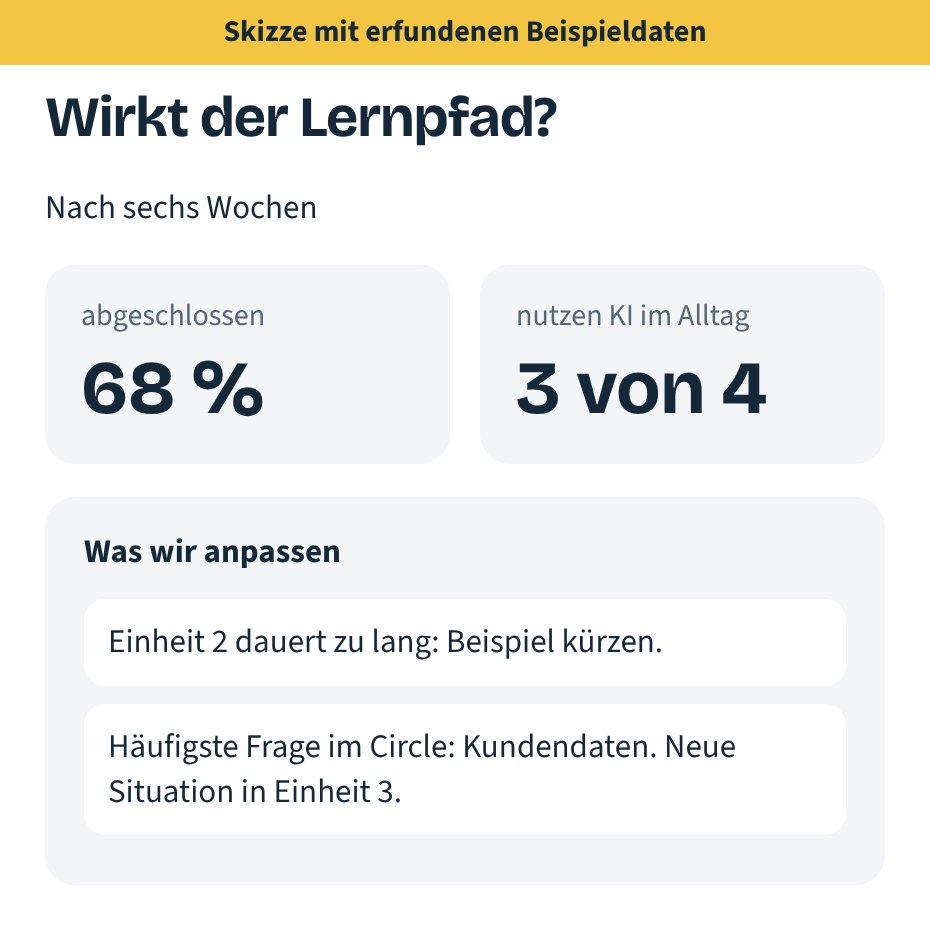
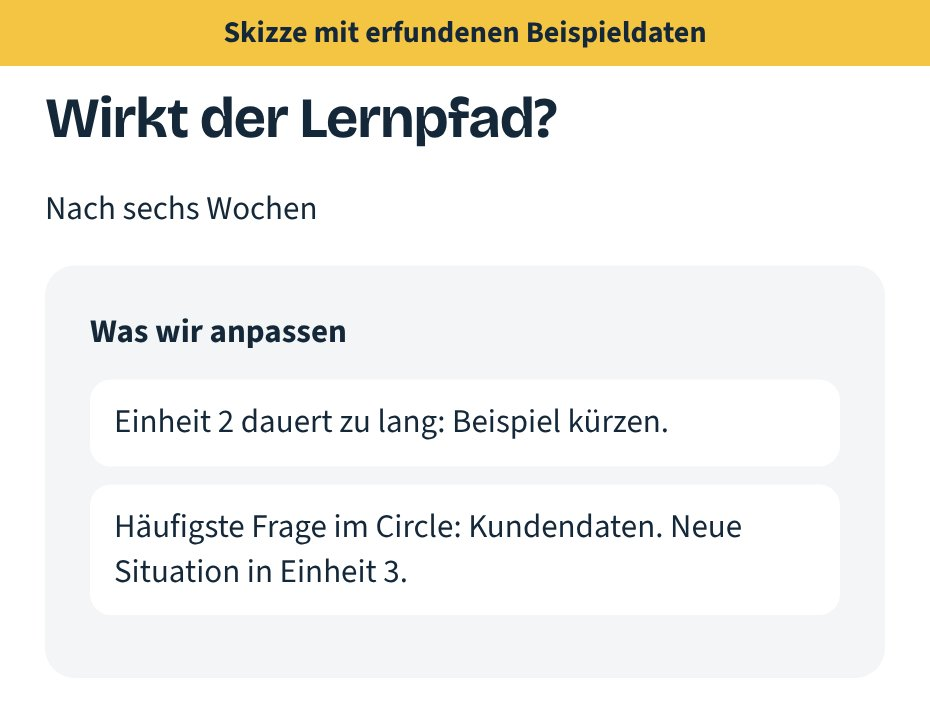
Roche/Post: sechste Prüfung umgesetzt (Tool-Vergleich, Learning Agent konkret, Skizzen ohne Kennzahl-Kacheln)
Claude-Session: https://claude.ai/code/session_014XkfFDuSjJmJmkreTr4ADN

diff --git a/post/index.html b/post/index.html
@@ -320,6 +320,7 @@ footer p{max-width:none;margin:0}
 @media (max-width:420px){.brand span{display:none}}
 
 @media (max-width:600px){.pair-row figure img.m-auto{aspect-ratio:auto;object-fit:contain}.focus{grid-template-columns:1fr!important}.focus a,.focus a+a,.focus.five a{padding-left:0!important;border-left:0!important}.focus a+a{border-top:1px solid var(--line)}}
+.pair-row figure img.natural{aspect-ratio:auto}
 </style>
 </head>
 <body>
@@ -380,7 +381,7 @@ footer p{max-width:none;margin:0}
         <div class="wie">
           <p class="lab">01 · Idee für die Post, als Prototyp</p>
           <h2>KI-Upskilling mit Badge</h2>
-          <ul><li><b>Ausgangslage:</b> Viele wissen nicht genau, was sie mit KI dürfen.</li><li><b>Vorgehen:</b> Acht Situationen aus dem Büroalltag einschätzen, mit Begründung. Danach gibt es einen Badge, später als Open Badge.</li><li><b>Mein Beitrag:</b> Prototyp gebaut. Die Regeln kämen aus euren Richtlinien. Nächster Schritt wäre ein Learning Agent, der Fragen dazu beantwortet.</li></ul>
+          <ul><li><b>Ausgangslage:</b> Viele wissen nicht genau, was sie mit KI dürfen.</li><li><b>Vorgehen:</b> Acht Situationen aus dem Büroalltag einschätzen, mit Begründung. Danach gibt es einen Badge, später als Open Badge.</li><li><b>Mein Beitrag:</b> Prototyp gebaut. Die Regeln kämen aus euren Richtlinien. Nächster Schritt: ein Chat-Assistent (Learning Agent), der Fragen zu euren Richtlinien beantwortet, mit Quellenangabe.</li></ul>
           <div class="embed-proto" id="proto-stage"><iframe id="pframe" src="ki-check.html?embed" title="Prototyp KI im Arbeitsalltag"></iframe></div><p class="small-link">Ab sechs richtigen Antworten gibt es den Badge. <a href="ki-check.html" target="_blank" rel="noopener">In neuem Fenster öffnen</a></p>
           
         </div>
@@ -407,7 +408,7 @@ footer p{max-width:none;margin:0}
         <div class="was">
           <p class="lab">03 · Bisher</p>
           <h3>Trainings und Workshops für Erwachsene</h3>
-          <ul><li>Weiterbildungen u. a. im Auftrag des Amts für Volksschulen BL</li><li>Themen: digitales Prüfen, Gamification, Auftreten vor Gruppen</li><li>Interaktive Inhalte mit Autorentools, BookWidgets Ambassador</li><li>Didaktische Beratung von Fachpersonen beim Aufbau digitaler Lerneinheiten</li></ul>
+          <ul><li>Weiterbildungen u. a. im Auftrag des Amts für Volksschulen BL</li><li>Themen: digitales Prüfen, Gamification, Auftreten vor Gruppen</li><li>Digitale Prüfungstools getestet und verglichen</li><li>Interaktive Inhalte mit Autorentools, BookWidgets Ambassador</li><li>Didaktische Beratung von Fachpersonen beim Aufbau digitaler Lerneinheiten</li></ul>
           <dl class="facts"><div><dt>Zeitraum</dt><dd>seit 2022</dd></div><div><dt>Rolle</dt><dd>Konzeption und Leitung</dd></div></dl>
           
           
@@ -433,7 +434,7 @@ footer p{max-width:none;margin:0}
           <p class="lab">04 · Idee für die Post</p>
           <h2>Learning Analytics, die etwas ändern</h2>
           <ul><li><b>Ausgangslage:</b> Abschlussquoten allein sagen wenig über die Wirkung.</li><li><b>Vorgehen:</b> Vorher und nachher fragen, ob sich die Leute sicher fühlen. Nach sechs Wochen nachfassen, ob sie es im Alltag nutzen.</li><li><b>Mein Beitrag:</b> Fragen und Auswertung aufbauen, daraus Anpassungen am Lernpfad ableiten.</li></ul>
-          <figure><picture><source media="(max-width:600px)" srcset="../img/post-analytics-m.jpg"><img class="shot m-auto" src="../img/post-analytics.jpg" alt="Skizze: Auswertung eines Lernpfads mit Beispieldaten"></picture><figcaption><b>Skizze mit erfundenen Beispieldaten.</b> So könnte eine Auswertung aussehen.</figcaption></figure>
+          <figure><picture><source media="(max-width:600px)" srcset="../img/post-analytics-m.jpg"><img class="shot m-auto natural" src="../img/post-analytics.jpg" alt="Skizze: Auswertung eines Lernpfads mit Beispieldaten"></picture><figcaption><b>Skizze mit erfundenen Beispieldaten.</b> So könnte eine Auswertung aussehen.</figcaption></figure>
           
         </div>
       </article>

diff --git a/roche/index.html b/roche/index.html
@@ -430,7 +430,7 @@ footer p{max-width:none;margin:0}
         <div class="wie">
           <p class="lab">04 · Idee für Fachleute</p>
           <h2>Train-the-Trainer</h2>
-          <ul><li><b>Ausgangslage:</b> Viele Fachleute geben ihr Wissen weiter, ohne dafür ausgebildet zu sein.</li><li><b>Vorgehen:</b> Kurze Workshops: eine Arbeit gut vorzeigen und danach prüfen, ob sie sitzt.</li><li><b>Mein Beitrag:</b> Konzept und Moderation, mit den Werkzeugen, die bei Roche freigegeben sind.</li></ul>
+          <ul><li><b>Ausgangslage:</b> Viele Fachleute geben ihr Wissen weiter, ohne dafür ausgebildet zu sein.</li><li><b>Vorgehen:</b> Kurze Workshops: eine Arbeit gut vorzeigen und danach prüfen, ob sie sitzt.</li><li><b>Mein Beitrag:</b> Bedarf mit den Fachleuten klären, Konzept und Moderation, so wie bei meinen Weiterbildungen im Auftrag des Amts für Volksschulen. Dazu die Werkzeuge, die bei Roche freigegeben sind.</li></ul>
           <figure><picture><source media="(max-width:600px)" srcset="../img/tafel-workshop-m.jpg"><img class="shot m-auto" src="../img/tafel-workshop.jpg" alt="Skizze einer Workshop-Tafel mit Wortwolke und Umfrage"></picture><figcaption><b>Skizze.</b> So würde ich einsteigen: Was hat dir am Anfang geholfen?</figcaption></figure>
           
         </div>
@@ -446,11 +446,11 @@ footer p{max-width:none;margin:0}
       </div>
       <div class="stage" id="proto-stage">
         <div class="tabs" role="tablist" aria-label="Prototypen">
-          <button class="tab" role="tab" id="tab-ki" aria-selected="true" aria-controls="screen" data-p="ki">KI-Check<small>Darf ich hier KI nutzen?</small></button>
-          <button class="tab" role="tab" id="tab-fach" aria-selected="false" tabindex="-1" aria-controls="screen" data-p="fach">Fachbegriff-Trainer<small>Labor, weitere Bereiche möglich</small></button>
+          <button class="tab" role="tab" id="tab-fach" aria-selected="true" aria-controls="screen" data-p="fach">Fachbegriff-Trainer<small>Labor, weitere Bereiche möglich</small></button>
+          <button class="tab" role="tab" id="tab-ki" aria-selected="false" tabindex="-1" aria-controls="screen" data-p="ki">KI-Check<small>Darf ich hier KI nutzen?</small></button>
         </div>
-        <div class="screen" id="screen" role="tabpanel" aria-labelledby="tab-ki" tabindex="-1"><iframe id="pframe" src="ki-check.html?embed" title="Prototyp KI-Check"></iframe></div>
-        <div class="stage-foot"><p id="phint">Acht Situationen aus dem Arbeitsalltag in Labor und Büro, jeweils mit kurzer Begründung.</p><a id="popen" href="ki-check.html" target="_blank" rel="noopener">In neuem Fenster öffnen</a></div>
+        <div class="screen" id="screen" role="tabpanel" aria-labelledby="tab-fach" tabindex="-1"><iframe id="pframe" src="fachbegriffe.html?embed" title="Prototyp Fachbegriff-Trainer"></iframe></div>
+        <div class="stage-foot"><p id="phint">Acht Begriffe in drei Stufen, wählbar nach Bereich. Am besten mit Ton.</p><a id="popen" href="fachbegriffe.html" target="_blank" rel="noopener">In neuem Fenster öffnen</a></div>
       </div>
     </div>
   </section>
@@ -480,7 +480,7 @@ footer p{max-width:none;margin:0}
 (function(){
   var P={fach:{src:'fachbegriffe.html',title:'Prototyp Fachbegriff-Trainer',hint:'Acht Begriffe in drei Stufen, wählbar nach Bereich. Am besten mit Ton.'},ki:{src:'ki-check.html',title:'Prototyp KI-Check',hint:'Acht Situationen aus dem Arbeitsalltag in Labor und Büro, jeweils mit kurzer Begründung.'}};
   var tabs=[].slice.call(document.querySelectorAll('#prototypen .tab'));
-  var screen=document.getElementById('screen'),frames={ki:document.getElementById('pframe')},hs={},cur='ki';
+  var screen=document.getElementById('screen'),frames={fach:document.getElementById('pframe')},hs={},cur='fach';
   function size(){if(hs[cur])screen.style.height=Math.max(320,Math.min(1100,hs[cur]+8))+'px'}
   function show(k,focusTab){
     tabs.forEach(function(t){var on=t.dataset.p===k;t.setAttribute('aria-selected',String(on));t.tabIndex=on?0:-1;if(on&&focusTab)t.focus()});
